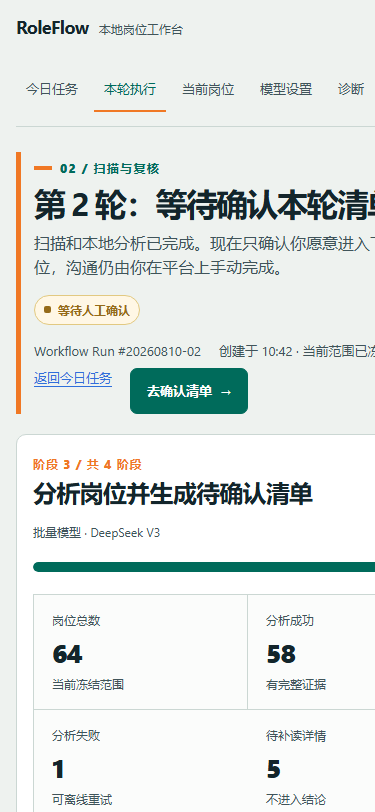
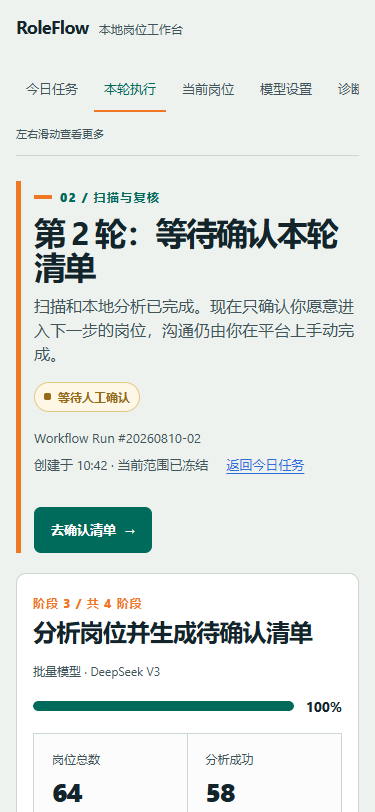
fix: render dashboard prototypes at exact mobile viewports

diff --git a/docs/prototypes/roleflow-dashboard/roleflow-dashboard.css b/docs/prototypes/roleflow-dashboard/roleflow-dashboard.css
@@ -43,12 +43,14 @@ button:disabled { cursor: not-allowed; opacity: .56; }
 
 .page { width: min(1220px, 100%); margin: 0 auto; padding: 24px 32px 64px; }
 .topbar { display: flex; align-items: center; justify-content: space-between; gap: 20px; padding-bottom: 18px; border-bottom: 1px solid var(--rf-rule); }
+.topbar > *, .page-heading > *, .today-grid > *, .action-panel > *, .card-head > *, .workflow-live-top > *, .queue-head > * { min-width: 0; }
 .brand { display: flex; align-items: baseline; gap: 10px; color: var(--rf-ink); text-decoration: none; }
 .brand strong { font-size: 18px; letter-spacing: -.03em; }
 .brand span { color: var(--rf-ink-soft); font-size: 12px; }
 .primary-nav { display: flex; flex-wrap: wrap; gap: 6px; justify-content: flex-end; }
 .primary-nav a { display: inline-flex; align-items: center; padding: 6px 10px; color: var(--rf-ink-soft); font-size: 13px; text-decoration: none; border-bottom: 2px solid transparent; }
 .primary-nav a:hover, .primary-nav a[aria-current="page"] { color: var(--rf-teal); border-bottom-color: var(--rf-orange); }
+.nav-scroll-hint { display: none; }
 
 .eyebrow { display: inline-flex; align-items: center; gap: 8px; margin: 0 0 9px; color: var(--rf-teal); font-size: 12px; font-weight: 800; letter-spacing: .11em; text-transform: uppercase; }
 .eyebrow::before { content: ""; width: 18px; height: 4px; background: var(--rf-orange); }
@@ -59,10 +61,12 @@ h3 { margin-bottom: 4px; font-size: 15px; line-height: 1.3; }
 .lede { max-width: 760px; margin-bottom: 0; color: var(--rf-ink-soft); font-size: 16px; }
 .page-heading { position: relative; padding: 34px 0 26px 24px; }
 .page-heading::before { content: ""; position: absolute; left: 0; top: 34px; bottom: 26px; width: 5px; background: var(--rf-orange); }
+.page-heading h1, .page-heading .lede, .action-panel h2, .action-panel .muted, .heading-meta, .job-card h2, .review-main, .metric-note { min-width: 0; overflow-wrap: anywhere; }
 .heading-meta { display: flex; flex-wrap: wrap; gap: 8px 18px; margin-top: 16px; color: var(--rf-ink-soft); font-size: 13px; }
+.heading-meta > * { min-width: 0; max-width: 100%; overflow-wrap: anywhere; }
 
 .button-row { display: flex; flex-wrap: wrap; align-items: center; gap: 10px; }
-.button, button.button { display: inline-flex; align-items: center; justify-content: center; gap: 8px; min-height: 46px; padding: 10px 16px; color: #fff; background: var(--rf-teal); border: 1px solid var(--rf-teal); border-radius: 7px; font-weight: 800; text-decoration: none; }
+.button, button.button { display: inline-flex; align-items: center; justify-content: center; gap: 8px; max-width: 100%; min-height: 46px; padding: 10px 16px; color: #fff; background: var(--rf-teal); border: 1px solid var(--rf-teal); border-radius: 7px; font-weight: 800; text-decoration: none; overflow-wrap: anywhere; white-space: normal; }
 .button:hover, button.button:hover { color: #fff; background: var(--rf-teal-deep); border-color: var(--rf-teal-deep); }
 .button.secondary, button.button.secondary { color: var(--rf-teal); background: transparent; border-color: var(--rf-rule); }
 .button.secondary:hover, button.button.secondary:hover { color: var(--rf-teal-deep); background: var(--rf-mist); border-color: var(--rf-teal); }
@@ -147,7 +151,7 @@ h3 { margin-bottom: 4px; font-size: 15px; line-height: 1.3; }
 .review-row { display: grid; grid-template-columns: 28px minmax(0, 1fr) auto; gap: 12px; align-items: start; padding: 15px 0; border-bottom: 1px solid var(--rf-rule); }
 .review-row:last-child { border-bottom: 0; }
 .review-row input { width: 20px; height: 20px; margin: 2px 0 0; accent-color: var(--rf-teal); }
-.review-main strong { display: block; font-size: 15px; }
+.review-main strong { display: block; min-width: 0; overflow-wrap: anywhere; font-size: 15px; }
 .review-meta, .review-reason { display: block; margin-top: 4px; color: var(--rf-ink-soft); font-size: 13px; }
 .review-evidence { display: flex; flex-wrap: wrap; gap: 6px; margin-top: 8px; }
 .review-evidence span { padding: 3px 7px; color: var(--rf-teal-deep); background: var(--rf-mist); border: 1px solid #b3d1c8; border-radius: 4px; font-size: 12px; }
@@ -160,7 +164,7 @@ h3 { margin-bottom: 4px; font-size: 15px; line-height: 1.3; }
 .sticky-confirm .button { color: var(--rf-ink); background: var(--rf-orange); border-color: var(--rf-orange); }
 
 .pool-tabs { display: flex; flex-wrap: wrap; gap: 7px; }
-.pool-tabs a { display: inline-flex; align-items: center; gap: 6px; min-height: 40px; padding: 6px 10px; color: var(--rf-ink-soft); background: var(--rf-surface); border: 1px solid var(--rf-rule); border-radius: 6px; font-size: 13px; text-decoration: none; }
+.pool-tabs a { display: inline-flex; align-items: center; gap: 6px; max-width: 100%; min-width: 0; min-height: 40px; padding: 6px 10px; color: var(--rf-ink-soft); background: var(--rf-surface); border: 1px solid var(--rf-rule); border-radius: 6px; font-size: 13px; text-decoration: none; overflow-wrap: anywhere; white-space: normal; }
 .pool-tabs a:hover, .pool-tabs a[aria-current="page"] { color: var(--rf-teal-deep); background: var(--rf-mist); border-color: #9dc8bd; }
 .pool-tabs b { color: var(--rf-teal); font-size: 12px; }
 .queue-head { display: flex; align-items: end; justify-content: space-between; gap: 18px; }
@@ -202,8 +206,9 @@ textarea { min-height: 94px; resize: vertical; }
   .signal-rail { display: none; }
   .page { padding: 14px 16px 42px; }
   .topbar { align-items: flex-start; flex-direction: column; gap: 10px; padding-bottom: 12px; }
-  .primary-nav { justify-content: flex-start; width: 100%; overflow-x: auto; padding-bottom: 2px; }
+  .primary-nav { justify-content: flex-start; flex-wrap: nowrap; width: 100%; min-width: 0; overflow-x: auto; overflow-y: hidden; padding: 0 18px 4px 0; scrollbar-color: var(--rf-orange) var(--rf-canvas); scrollbar-width: thin; }
   .primary-nav a { flex: 0 0 auto; }
+  .nav-scroll-hint { display: block; color: var(--rf-ink-soft); font-size: 11px; }
   .page-heading { padding: 25px 0 20px 18px; }
   .page-heading::before { top: 25px; bottom: 20px; }
   h1 { font-size: 32px; }

diff --git a/docs/prototypes/roleflow-dashboard/queue.html b/docs/prototypes/roleflow-dashboard/queue.html
@@ -25,6 +25,7 @@
           <a href="/communication/new?planId=12">批量沟通清单</a>
           <a href="/settings">模型设置</a>
         </nav>
+        <span class="nav-scroll-hint" aria-hidden="true">左右滑动查看更多</span>
       </header>
 
       <main id="main-content">

diff --git a/docs/prototypes/roleflow-dashboard/today.html b/docs/prototypes/roleflow-dashboard/today.html
@@ -25,6 +25,7 @@
           <a href="/settings">模型设置</a>
           <a href="/diagnostics">诊断</a>
         </nav>
+        <span class="nav-scroll-hint" aria-hidden="true">左右滑动查看更多</span>
       </header>
 
       <main id="main-content">

diff --git a/docs/prototypes/roleflow-dashboard/workflow.html b/docs/prototypes/roleflow-dashboard/workflow.html
@@ -25,6 +25,7 @@
           <a href="/settings">模型设置</a>
           <a href="/diagnostics">诊断</a>
         </nav>
+        <span class="nav-scroll-hint" aria-hidden="true">左右滑动查看更多</span>
       </header>
 
       <main id="main-content">

diff --git a/docs/superpowers/specs/2026-08-10-roleflow-dashboard-visual-system-design.md b/docs/superpowers/specs/2026-08-10-roleflow-dashboard-visual-system-design.md
@@ -90,8 +90,20 @@ Open with “需要你处理的岗位” and a short explanation of the current 
 
 1. Add one shared offline stylesheet with tokens, typography, signal rail, cards, badges, form controls, table/card responsive behavior, focus, reduced motion, error and empty states.
 2. Add three self-contained static HTML prototypes that import the shared stylesheet and use only existing RoleFlow route names and data-shaped examples.
-3. Render each page at 1440×900, 1024×768, 768×1024, and 375×812 with the installed local Edge binary; inspect representative screenshots and check computed overflow/focus behavior offline.
+3. Use the installed local Edge executable through Playwright; call `page.setViewportSize({ width, height })` before loading each page, then render each page at 1440×900, 1024×768, 768×1024, and 375×812. Inspect every mobile screenshot and check the root plus each major visible text/container boundary in that same page context.
 4. Record the screenshot evidence in the task report and commit only the assigned prototype/spec/screenshot files.
+
+## Mobile validation correction
+
+The first prototype verification compared only `document.documentElement.scrollWidth` with the viewport width. That check passed while screenshots still showed right-edge text cropping, because it did not inspect intermediate flex/grid children, text paint ranges, or the allowed overflow container itself. The corrected offline gate must, for every page and viewport:
+
+- assert `document.documentElement.scrollWidth === innerWidth` and `body.scrollWidth === innerWidth`;
+- assert every major heading, lede, action-panel text block, metric grid, job filter group, and heading metadata container has `min-width: 0`, `overflow-wrap: anywhere`, and no right edge beyond its parent or viewport;
+- inspect `Range.getClientRects()` for visible text and reject any painted line whose right edge exceeds its text container or viewport;
+- keep the mobile primary navigation inside the viewport with `flex-wrap: nowrap`, `overflow-x: auto`, and a visible “左右滑动查看更多” cue; this is the only intentional local horizontal scroll region;
+- assert the page’s primary action is fully inside the first viewport, keyboard focus is visible, reduced motion is honored, contrast meets AA, and no external URL/font is loaded.
+
+The previous “12/12 无横向溢出” conclusion is superseded: it proved only root document width in a different renderer. Direct CDP inspection of the old Edge CLI command showed `window.innerWidth=496`, `clientWidth=496`, `innerHeight=719`, `outerWidth=522` while the PNG header was `375×812`; the image was therefore a 375px crop of a wider layout. The repaired prototypes must use one Playwright viewport context for both metrics and PNG output, then be visually checked before this wave is accepted.
 
 ## Production migration sequence
 
